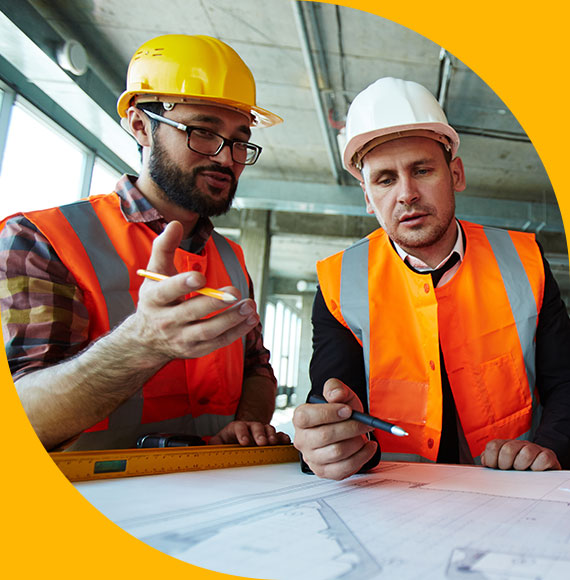
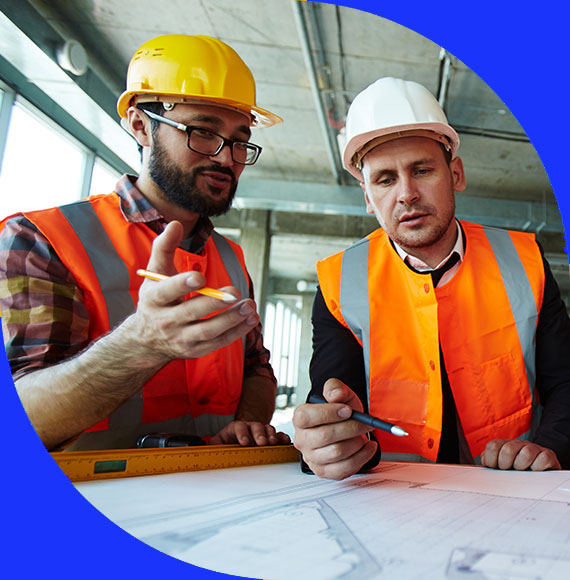
hom page button and image color

Changed region(s): [[0.0, 0.5586, 0.4772, 1.0], [0.5368, 0.0, 1.0, 0.4655]]

diff --git a/public/assets/frontend/style.css b/public/assets/frontend/style.css
@@ -859,7 +859,7 @@ blockquote p {
 .readon.more {
   background: #0d6efd;
   padding: 17px 23px 17px 23px;
-  color: #010d14;
+  color: #ffffff;
   font-weight: 500;
   text-transform: uppercase;
 }
@@ -938,7 +938,7 @@ blockquote p {
   padding: 16px 35px 16px 35px;
 }
 .readon.more.contact:hover {
-  background-color: #fff;
+  background-color: #ffffff;
   color: #010d14;
 }
 .readon.more.requset-services {
@@ -1316,7 +1316,7 @@ blockquote p {
   font-size: 14px;
   font-weight: 500;
   text-transform: uppercase;
-  background-color: #FFCA46;
+  background-color: #0d6efd;
   padding: 14px 25px 12px 25px;
   color: #010D14;
   transition: all ease .3s;

diff --git a/public/assets/frontend/custom.css b/public/assets/frontend/custom.css
@@ -49,3 +49,6 @@
 .text-white{
     color:  #ffffff;
 }
+.btn-blue{
+    background-color: #3239e5;
+}

diff --git a/resources/views/frontend/sections/blog.blade.php b/resources/views/frontend/sections/blog.blade.php
@@ -21,7 +21,7 @@
                            <li class="admin"><i class="fa fa-user-o"></i>Admin</li>
                        </ul>
                     <h3 class="blog-title"><a href="{{ route('blog.single') }}">We really appreciate content about the construction</a></h3>
-                    <div class="blog-button"><a href="{{ route('blog.single') }}">Read More</a></div>
+                    <div class="blog-button"><a class="text-white" href="{{ route('blog.single') }}">Read More</a></div>
                 </div>
             </div>
             <div class="blog-item">
@@ -34,7 +34,7 @@
                            <li class="admin"><i class="fa fa-user-o"></i>Admin</li>
                        </ul>
                     <h3 class="blog-title"><a href="{{ route('blog.single') }}">Best practices construction law on construction</a></h3>
-                    <div class="blog-button"><a href="{{ route('blog.single') }}">Read More</a></div>
+                    <div class="blog-button"><a class="text-white" href="{{ route('blog.single') }}">Read More</a></div>
                 </div>
             </div>
             <div class="blog-item">
@@ -47,7 +47,7 @@
                            <li class="admin"><i class="fa fa-user-o"></i>Admin</li>
                        </ul>
                     <h3 class="blog-title"><a href="{{ route('blog.single') }}">Although many people may overlook the need</a></h3>
-                    <div class="blog-button"><a href="{{ route('blog.single') }}">Read More</a></div>
+                    <div class="blog-button"><a class="text-white" href="{{ route('blog.single') }}">Read More</a></div>
                 </div>
             </div>
             <div class="blog-item">
@@ -60,7 +60,7 @@
                            <li class="admin"><i class="fa fa-user-o"></i>Admin</li>
                        </ul>
                     <h3 class="blog-title"><a href="{{ route('blog.single') }}">Construction executive holds a very special place</a></h3>
-                    <div class="blog-button"><a href="{{ route('blog.single') }}">Read More</a></div>
+                    <div class="blog-button"><a class="text-white" href="{{ route('blog.single') }}">Read More</a></div>
                 </div>
             </div>
             <div class="blog-item">
@@ -73,7 +73,7 @@
                            <li class="admin"><i class="fa fa-user-o"></i>Admin</li>
                        </ul>
                     <h3 class="blog-title"><a href="{{ route('blog.single') }}">This is another massive sites with a ton of information</a></h3>
-                    <div class="blog-button"><a href="{{ route('blog.single') }}">Read More</a></div>
+                    <div class="blog-button"><a class="text-white" href="{{ route('blog.single') }}">Read More</a></div>
                 </div>
             </div>
             <div class="blog-item">
@@ -86,7 +86,7 @@
                            <li class="admin"><i class="fa fa-user-o"></i>Admin</li>
                        </ul>
                     <h3 class="blog-title"><a href="{{ route('blog.single') }}">The construction business the owner site is jam-packed</a></h3>
-                    <div class="blog-button"><a href="{{ route('blog.single') }}">Read More</a></div>
+                    <div class="blog-button"><a class="text-white" href="{{ route('blog.single') }}">Read More</a></div>
                 </div>
             </div>
         </div>

diff --git a/resources/views/frontend/sections/who-we-are.blade.php b/resources/views/frontend/sections/who-we-are.blade.php
@@ -52,7 +52,7 @@
                     <div class="row mt-47 md-mt-25">
                         <div  class="col-lg-6 col-md-4 sm-mb-30">
                             <div class="btn-part">
-                                <a class="readon more know" href="{{ route('about') }}">Know more</a>
+                                <a class="readon more know text-white" href="{{ route('about') }}">Know more</a>
                             </div>
                         </div>
                         <div class="col-lg-6 col-md-8">
